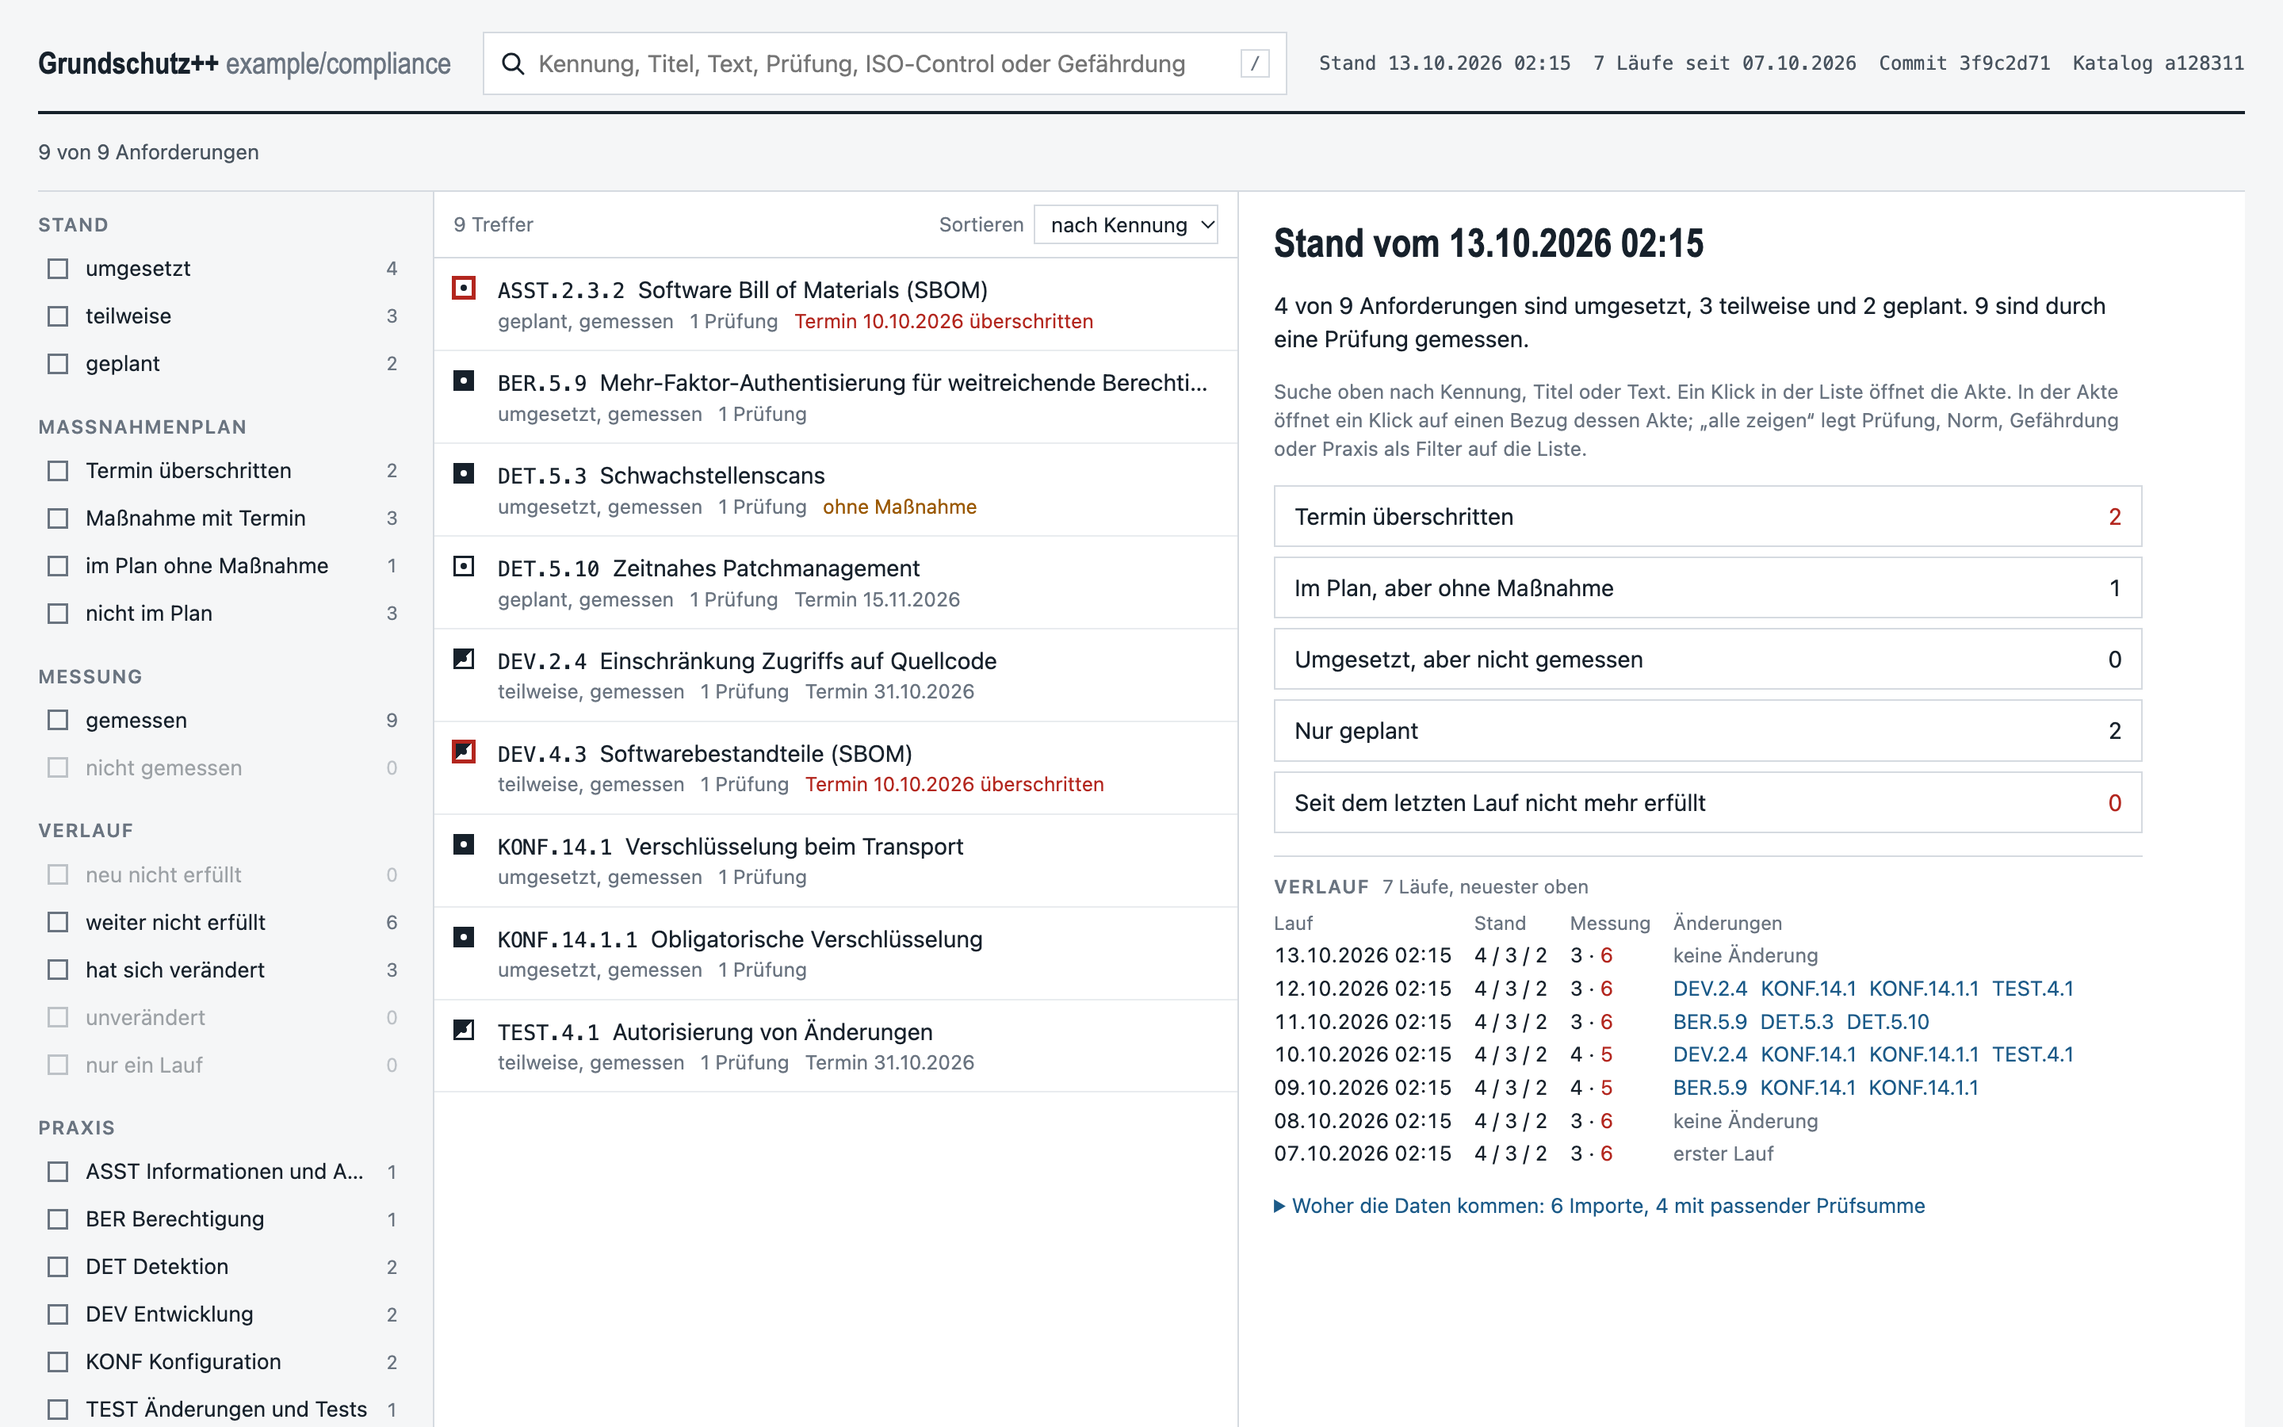
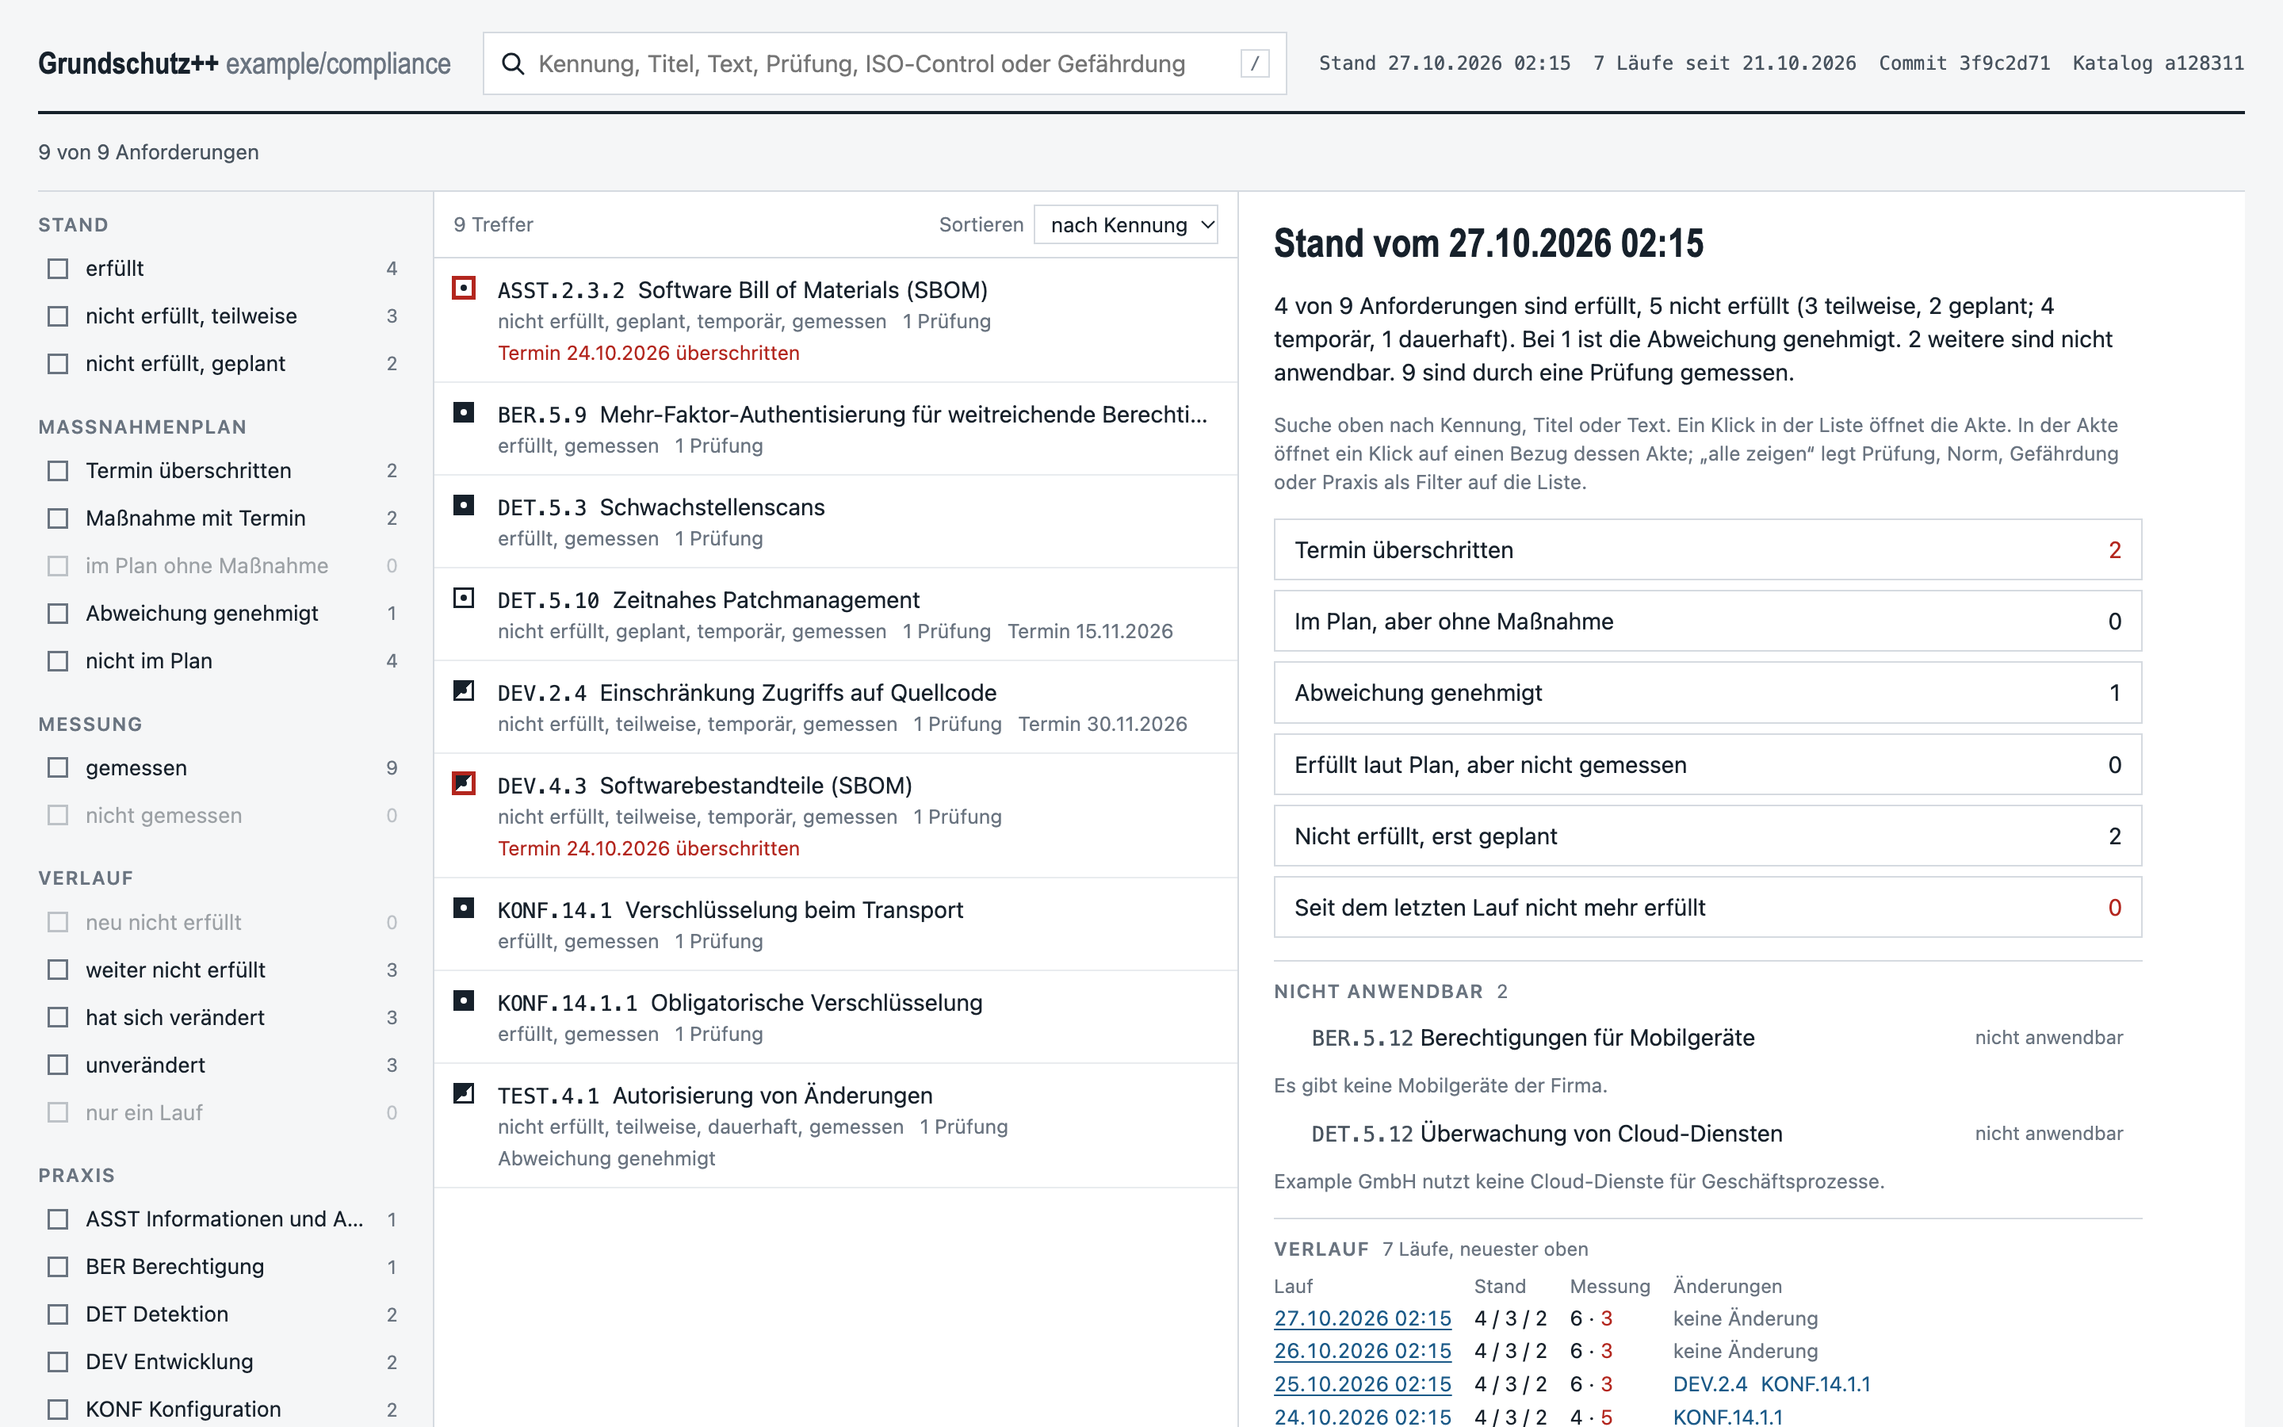
docs: screenshots in the 300-1 states
tools/screenshots.sh builds the Example GmbH chain (tools/example.go),
renders both views and captures the images with headless Chrome. The
example has an approved deviation and two requirements not applicable.
The README links grundschutz-starter.

diff --git a/tools/example.go b/tools/example.go
@@ -1,0 +1,254 @@
+// SPDX-FileCopyrightText: 2026 Kai Ole Hartwig <mail@ole-hartwig.eu>
+// SPDX-License-Identifier: MIT
+
+//go:build ignore
+
+// Writes the example of the README: a made-up company, Example GmbH, with a
+// small catalog excerpt, a profile and seven nightly runs of the worksheets
+// chain (security plan, assessment plan, results of five checks, POA&M), the
+// way grundschutz-worksheets and grundschutz-checks write them. Nothing in it
+// is real; the catalog excerpt is invented for the screenshots.
+//
+// Two requirements are left out of the profile as not applicable, and one
+// permanent nonfulfilment carries an approved residual risk, so the states of
+// BSI-Standard 300-1 are all on the page.
+//
+//	go run tools/example.go out/example
+package main
+
+import (
+	"crypto/sha256"
+	"encoding/hex"
+	"encoding/json"
+	"fmt"
+	"os"
+	"path/filepath"
+	"strings"
+)
+
+type m = map[string]any
+
+func prop(name, value string) m { return m{"name": name, "value": value} }
+
+var root string
+
+// write stores v as JSON below root and returns its SHA-256.
+func write(rel string, v any) string {
+	data, err := json.MarshalIndent(v, "", "  ")
+	if err != nil {
+		panic(err)
+	}
+	p := filepath.Join(root, rel)
+	if err := os.MkdirAll(filepath.Dir(p), 0o755); err != nil {
+		panic(err)
+	}
+	if err := os.WriteFile(p, data, 0o644); err != nil {
+		panic(err)
+	}
+	sum := sha256.Sum256(data)
+	return hex.EncodeToString(sum[:])
+}
+
+func res(uuid, href, sum string) m {
+	return m{"uuid": uuid, "rlinks": []any{m{"href": href, "hashes": []any{m{"algorithm": "SHA-256", "value": sum}}}}}
+}
+
+type req struct {
+	id, title, text, level, threats string
+	// state of the plan, how it is measured, and what the example says
+	status, check, basis string
+	nf, risk             string // permanent: approved deviation
+	action, resp, due    string // action of the POA&M
+	// measured per run, oldest first: s satisfied, n not satisfied
+	found string
+}
+
+var reqs = []req{
+	{id: "ASST.2.3.2", title: "Software Bill of Materials (SBOM)", text: "Die Institution MUSS für jede selbst betriebene Anwendung eine Liste der enthaltenen Softwarebestandteile führen.", level: "normal-SdT", threats: "G 0.39",
+		status: "planned", check: "sbom", basis: "Es gibt noch keine automatische SBOM.", nf: "temporary", action: "I-3: SBOM in der Build-Pipeline erzeugen", resp: "Plattform-Team", due: "2026-10-24", found: "nnnnnnn"},
+	{id: "BER.5.9", title: "Mehr-Faktor-Authentisierung für weitreichende Berechtigungen", text: "Zugänge mit weitreichenden Berechtigungen MÜSSEN durch einen zweiten Faktor geschützt sein.", level: "normal-SdT", threats: "G 0.40",
+		status: "implemented", check: "mfa", basis: "Alle Administrationszugänge verlangen einen zweiten Faktor.", found: "snsssss"},
+	{id: "DET.5.3", title: "Schwachstellenscans", text: "Die Institution MUSS ihre Systeme regelmäßig auf bekannte Schwachstellen prüfen.", level: "normal-SdT", threats: "G 0.28",
+		status: "implemented", check: "vuln-scan", basis: "Wöchentlicher Scan, Ergebnisse im Ticketsystem.", found: "sssssss"},
+	{id: "DET.5.10", title: "Zeitnahes Patchmanagement", text: "Sicherheitsupdates MÜSSEN innerhalb von 14 Tagen eingespielt werden.", level: "normal-SdT", threats: "G 0.28",
+		status: "planned", check: "vuln-scan", basis: "Fristen sind noch nicht überwacht.", nf: "temporary", action: "I-5: Patchfristen im Scan überwachen", resp: "Betrieb", due: "2026-11-15", found: "sssssss"},
+	{id: "DEV.2.4", title: "Einschränkung Zugriffs auf Quellcode", text: "Der Zugriff auf Quellcode MUSS auf die Beteiligten des Projekts beschränkt sein.", level: "normal-SdT", threats: "G 0.43",
+		status: "partial", check: "repo-access", basis: "Zwei Repositories sind noch für alle Entwickler lesbar.", nf: "temporary", action: "I-4: Lesezugriff auf zwei Repositories entziehen", resp: "Entwicklung", due: "2026-11-30", found: "nsnnsss"},
+	{id: "DEV.4.3", title: "Softwarebestandteile (SBOM)", text: "Die Softwarebestandteile einer Anwendung MÜSSEN erfasst und auf Schwachstellen geprüft werden.", level: "normal-SdT", threats: "G 0.39",
+		status: "partial", check: "sbom", basis: "Erfasst sind erst die Hälfte der Anwendungen.", nf: "temporary", action: "I-6: Restliche Anwendungen erfassen", resp: "Entwicklung", due: "2026-10-24", found: "nnnnnnn"},
+	{id: "KONF.14.1", title: "Verschlüsselung beim Transport", text: "Daten MÜSSEN beim Transport über Netze verschlüsselt werden.", level: "normal-SdT", threats: "G 0.43",
+		status: "implemented", check: "tls-endpoints", basis: "Alle öffentlichen Endpunkte sprechen TLS.", found: "sssssss"},
+	{id: "KONF.14.1.1", title: "Obligatorische Verschlüsselung", text: "Konfiguration für Anwendungen SOLLTE unverschlüsselte und anfällige Verbindungen über Netze deaktivieren.", level: "normal-SdT", threats: "G 0.43",
+		status: "implemented", check: "tls-endpoints", basis: "HTTP leitet auf HTTPS um, HSTS ist gesetzt.", found: "nnsnsss"},
+	{id: "TEST.4.1", title: "Autorisierung von Änderungen", text: "Änderungen an produktiven Systemen MÜSSEN von einer berechtigten Person freigegeben werden.", level: "normal-SdT", threats: "G 0.45",
+		status: "partial", check: "repo-access", basis: "Notfalländerungen des Hosters werden nachträglich freigegeben.", nf: "permanent", risk: "R-021", found: "ssnnnnn"},
+}
+
+var notApplicable = [][3]string{
+	{"DET.5.12", "Überwachung von Cloud-Diensten", "Example GmbH nutzt keine Cloud-Dienste für Geschäftsprozesse."},
+	{"BER.5.12", "Berechtigungen für Mobilgeräte", "Es gibt keine Mobilgeräte der Firma."},
+}
+
+func ctl(id, title, text, level, threats string, sub ...any) m {
+	return m{"id": id, "title": title, "params": []any{},
+		"props":    []any{prop("sec_level", level), prop("threats", threats)},
+		"parts":    []any{m{"name": "statement", "prose": text, "props": []any{prop("modal_verb", modal(text))}}},
+		"controls": sub}
+}
+
+func modal(t string) string {
+	for _, v := range []string{"MÜSSEN", "MUSS", "SOLLTEN", "SOLLTE", "KANN"} {
+		if strings.Contains(t, " "+v+" ") {
+			return v
+		}
+	}
+	return ""
+}
+
+func main() {
+	if len(os.Args) != 2 {
+		fmt.Fprintln(os.Stderr, "usage: go run tools/example.go <dir>")
+		os.Exit(2)
+	}
+	root = os.Args[1]
+	if err := os.RemoveAll(root); err != nil {
+		panic(err)
+	}
+	by := map[string]req{}
+	for _, r := range reqs {
+		by[r.id] = r
+	}
+	c := func(id string) m { r := by[id]; return ctl(r.id, r.title, r.text, r.level, r.threats) }
+	konf := ctl("KONF.14.1", by["KONF.14.1"].title, by["KONF.14.1"].text, "normal-SdT", "G 0.43", c("KONF.14.1.1"))
+	var na []any
+	for _, n := range notApplicable {
+		na = append(na, ctl(n[0], n[1], "Die Institution SOLLTE hier etwas regeln.", "normal-SdT", "G 0.1"))
+	}
+	group := func(id, title string, sub ...any) m {
+		return m{"id": id, "title": title, "groups": sub}
+	}
+	leaf := func(id, title string, controls ...any) m { return m{"id": id, "title": title, "controls": controls} }
+	catSum := write("lib/catalog.json", m{"catalog": m{
+		"uuid": "00000000-0000-4000-8000-000000000001", "metadata": m{"title": "Grundschutz++ (Auszug für das Beispiel)"},
+		"groups": []any{
+			group("ASST", "Informationen und Assets", leaf("ASST.2", "Softwarebestand", c("ASST.2.3.2"))),
+			group("BER", "Berechtigung", leaf("BER.5", "Privilegierte Zugänge", c("BER.5.9"), na[1])),
+			group("DET", "Detektion", leaf("DET.5", "Schwachstellen", c("DET.5.3"), c("DET.5.10"), na[0])),
+			group("DEV", "Entwicklung", leaf("DEV.2", "Quellcode", c("DEV.2.4")), leaf("DEV.4", "Bestandteile", c("DEV.4.3"))),
+			group("KONF", "Konfiguration", leaf("KONF.14", "Verteilte Anwendungen", konf)),
+			group("TEST", "Änderungen und Tests", leaf("TEST.4", "Freigabe", c("TEST.4.1"))),
+		},
+	}})
+
+	var ids []string
+	for _, r := range reqs {
+		ids = append(ids, r.id)
+	}
+	naRes := []any{res("cat", "catalog.json", catSum)}
+	for _, n := range notApplicable {
+		naRes = append(naRes, m{"uuid": "na-" + n[0], "description": n[2],
+			"props": []any{prop("control-id", n[0]), prop("tailoring", "not-applicable")}})
+	}
+	profSum := write("lib/profile.json", m{"profile": m{
+		"uuid": "00000000-0000-4000-8000-000000000002",
+		"metadata": m{"title": "Profil der Example GmbH", "last-modified": "2026-10-20T00:00:00Z",
+			"props": []any{prop("catalog-commit", "a128311c0ffee0123456789abcdef0123456789a")}},
+		"imports":     []any{m{"href": "#cat", "include-controls": []any{m{"with-ids": ids}}}},
+		"back-matter": m{"resources": naRes},
+	}})
+
+	checks := []string{"tls-endpoints", "mfa", "sbom", "vuln-scan", "repo-access"}
+	titles := map[string]string{"tls-endpoints": "TLS der öffentlichen Endpunkte", "mfa": "Zweiter Faktor für Administratoren",
+		"sbom": "Softwarebestandsliste", "vuln-scan": "Schwachstellenscan und Patchstand", "repo-access": "Zugriff auf Repositories"}
+
+	for n := range 7 {
+		day := 21 + n
+		stamp := fmt.Sprintf("2026-10-%02dT02:15:00Z", day)
+		dir := fmt.Sprintf("runs/%02d", n+1)
+		var impl []any
+		for _, r := range reqs {
+			props := []any{prop("implementation-status", r.status), prop("assessment-state", "measured")}
+			if r.nf != "" {
+				props = append(props, prop("nonfulfilment", r.nf))
+			}
+			if r.status == "implemented" {
+				props = append(props, prop("reviewed", "2026-10-20"), prop("reviewed-by", "Geschäftsführung"))
+			}
+			if r.nf == "permanent" {
+				props = append(props, prop("risk-analysis", r.risk), prop("residual-risk-approved", "2026-10-22"),
+					prop("residual-risk-approved-by", "Geschäftsführung"), prop("reviewed", "2026-10-22"), prop("reviewed-by", "Informationssicherheitsbeauftragte"))
+			}
+			impl = append(impl, m{"control-id": r.id, "props": props,
+				"by-components": []any{m{"description": r.basis, "props": []any{prop("basis", "measured")}}}})
+		}
+		sspSum := write(dir+"/security-plan.json", m{"system-security-plan": m{
+			"uuid":           "00000000-0000-4000-8000-0000000001" + fmt.Sprintf("%02d", n),
+			"metadata":       m{"title": "Sicherheitskonzept der Example GmbH", "last-modified": stamp},
+			"import-profile": m{"href": "#prof"}, "system-characteristics": m{"system-name": "example/compliance"},
+			"control-implementation": m{"implemented-requirements": impl},
+			"back-matter":            m{"resources": []any{res("prof", "../../lib/profile.json", profSum)}},
+		}})
+		var acts []any
+		for _, id := range checks {
+			var covered []any
+			for _, r := range reqs {
+				if r.check == id {
+					covered = append(covered, m{"control-id": r.id})
+				}
+			}
+			acts = append(acts, m{"title": titles[id], "props": []any{prop("check", id), prop("method", "TEST")},
+				"related-controls": m{"control-selections": []any{m{"include-controls": covered}}}})
+		}
+		apSum := write(dir+"/assessment-plan.json", m{"assessment-plan": m{
+			"uuid":       "00000000-0000-4000-8000-0000000002" + fmt.Sprintf("%02d", n),
+			"metadata":   m{"title": "Prüfplan der Example GmbH", "last-modified": stamp},
+			"import-ssp": m{"href": "#ssp"}, "local-definitions": m{"activities": acts},
+			"back-matter": m{"resources": []any{res("ssp", "security-plan.json", sspSum)}},
+		}})
+		for _, id := range checks {
+			var findings, covered []any
+			for _, r := range reqs {
+				if r.check != id {
+					continue
+				}
+				state := map[byte]string{'s': "satisfied", 'n': "not-satisfied"}[r.found[n]]
+				covered = append(covered, m{"control-id": r.id})
+				findings = append(findings, m{"title": r.id, "target": m{"target-id": r.id, "status": m{"state": state}}})
+			}
+			write(fmt.Sprintf("%s/results-%s.json", dir, id), m{"assessment-results": m{
+				"uuid":     "00000000-0000-4000-8000-0000000003" + fmt.Sprintf("%02d", n),
+				"metadata": m{"title": titles[id], "last-modified": stamp}, "import-ap": m{"href": "#ap"},
+				"results": []any{m{"title": titles[id], "start": stamp, "end": stamp,
+					"props": []any{prop("check", id), prop("performed-by", "grundschutz-checks, Pipeline-Job"),
+						prop("measured-by-repository", "example/compliance"), prop("measured-by-job", fmt.Sprint(1200+n)),
+						prop("measured-by-commit", "3f9c2d71"+fmt.Sprintf("%02d", n)+"b4e6a"), prop("catalog-commit", "a128311c0ffee0123456789abcdef0123456789a")},
+					"reviewed-controls": m{"control-selections": []any{m{"include-controls": covered}}},
+					"findings":          findings}},
+				"back-matter": m{"resources": []any{res("ap", "assessment-plan.json", apSum)}},
+			}})
+		}
+		var risks, items []any
+		for _, r := range reqs {
+			if r.nf == "" {
+				continue
+			}
+			uuid := "00000000-0000-4000-8000-00000000" + fmt.Sprintf("%04d", len(risks)+1)
+			risk := m{"uuid": uuid, "title": r.id + " nicht vollständig erfüllt", "status": "open"}
+			if r.nf == "permanent" {
+				risk["status"] = "deviation-approved"
+			} else {
+				risk["deadline"] = r.due + "T23:59:59Z"
+				risk["remediations"] = []any{m{"title": r.action, "props": []any{prop("responsible", r.resp)}}}
+			}
+			risks = append(risks, risk)
+			items = append(items, m{"title": r.id, "props": []any{prop("control-id", r.id), prop("nonfulfilment", r.nf)},
+				"related-risks": []any{m{"risk-uuid": uuid}}})
+		}
+		write(dir+"/poam.json", m{"plan-of-action-and-milestones": m{
+			"uuid":       "00000000-0000-4000-8000-0000000004" + fmt.Sprintf("%02d", n),
+			"metadata":   m{"title": "Maßnahmenplan der Example GmbH", "last-modified": stamp},
+			"import-ssp": m{"href": "#ssp"}, "risks": risks, "poam-items": items,
+			"back-matter": m{"resources": []any{res("ssp", "security-plan.json", sspSum)}},
+		}})
+	}
+}

diff --git a/README.md b/README.md
@@ -12,6 +12,11 @@ profile and the catalog, checking the SHA-256 it names. Which catalog, which
 commit of the BSI library and which parameter values apply comes from the
 profile, not from the viewer.
 
+The whole chain, run nightly, is in
+[grundschutz-starter](https://github.com/ohartwig/grundschutz-starter), a
+template to copy. The checks that measure the requirements are in
+[grundschutz-checks](https://github.com/ohartwig/grundschutz-checks).
+
 ![The explorer: filters, the requirements, and the state of the newest run with every run before it](docs/explorer-overview.png)
 
 One requirement with its history: the measured state per run, oldest left,
@@ -28,6 +33,7 @@ The screenshots show a made-up company, Example GmbH: seven nights of the
 worksheets chain with the five
 [grundschutz-checks](https://github.com/ohartwig/grundschutz-checks), an owner
 review and an improvement register. The page is in German, like the catalog.
+`sh tools/screenshots.sh` rebuilds the example and the images.
 
 ## Download
 
